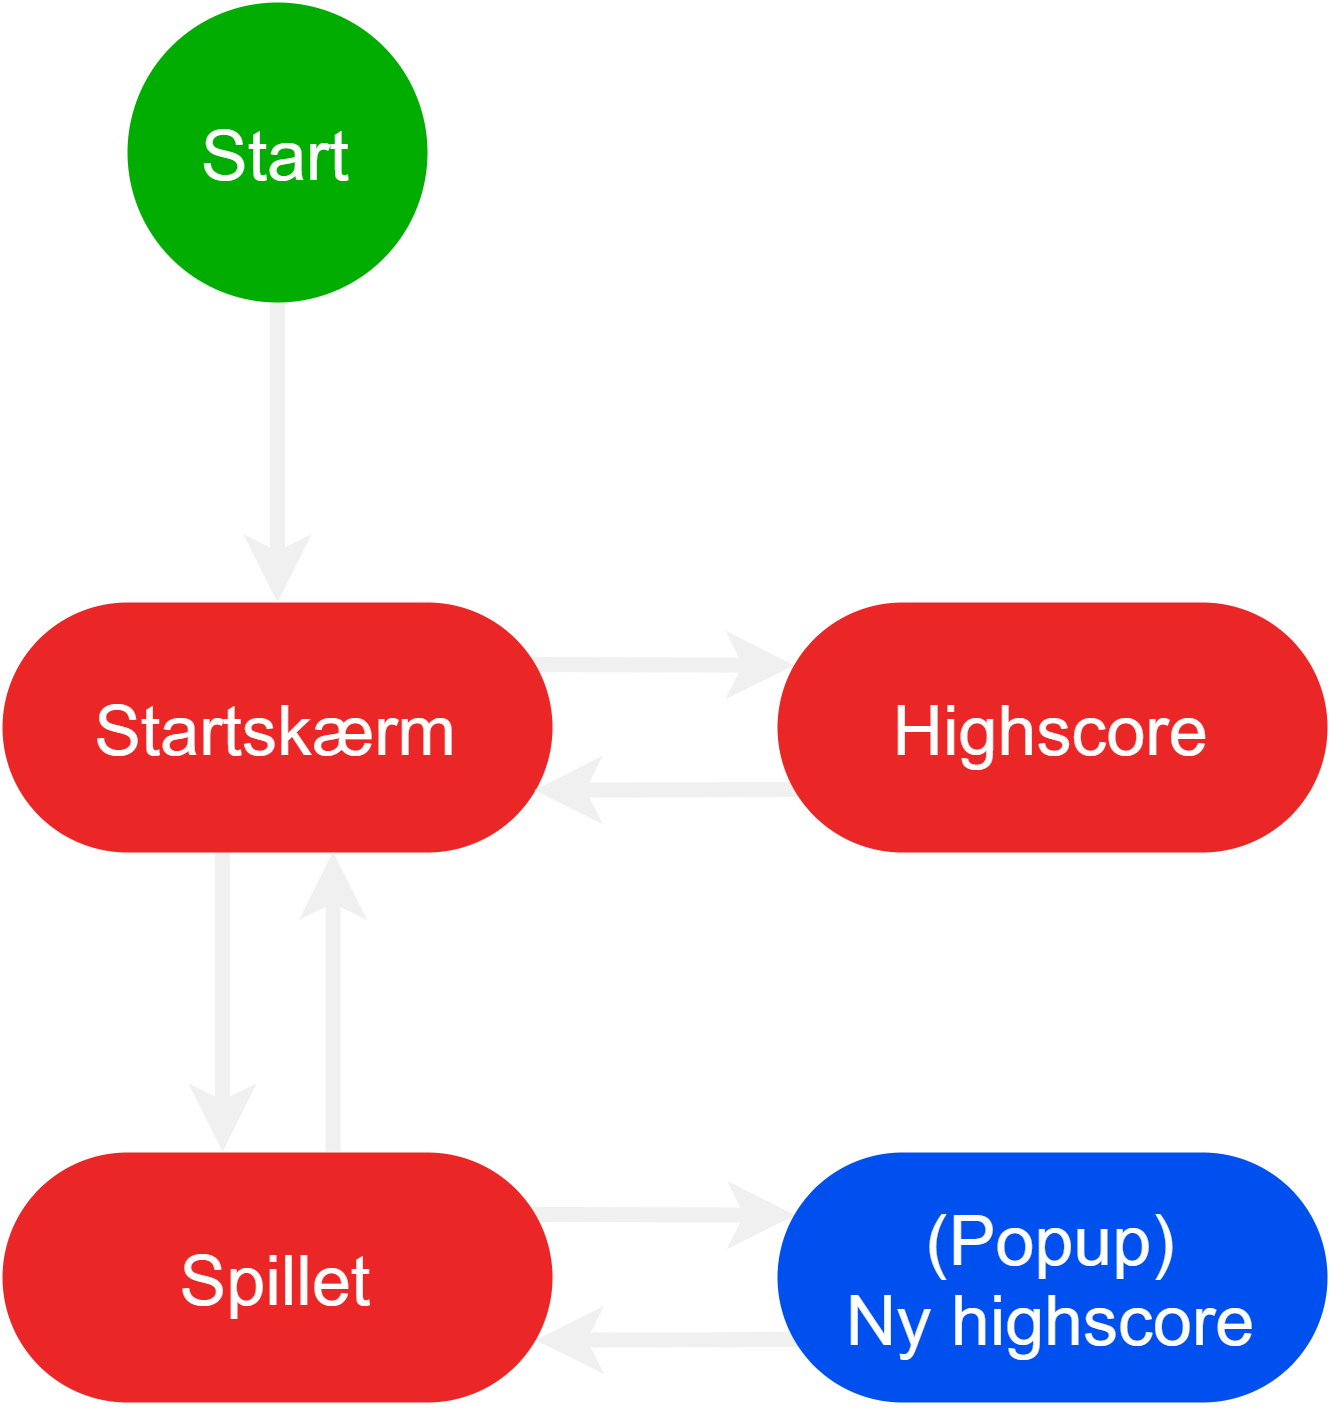
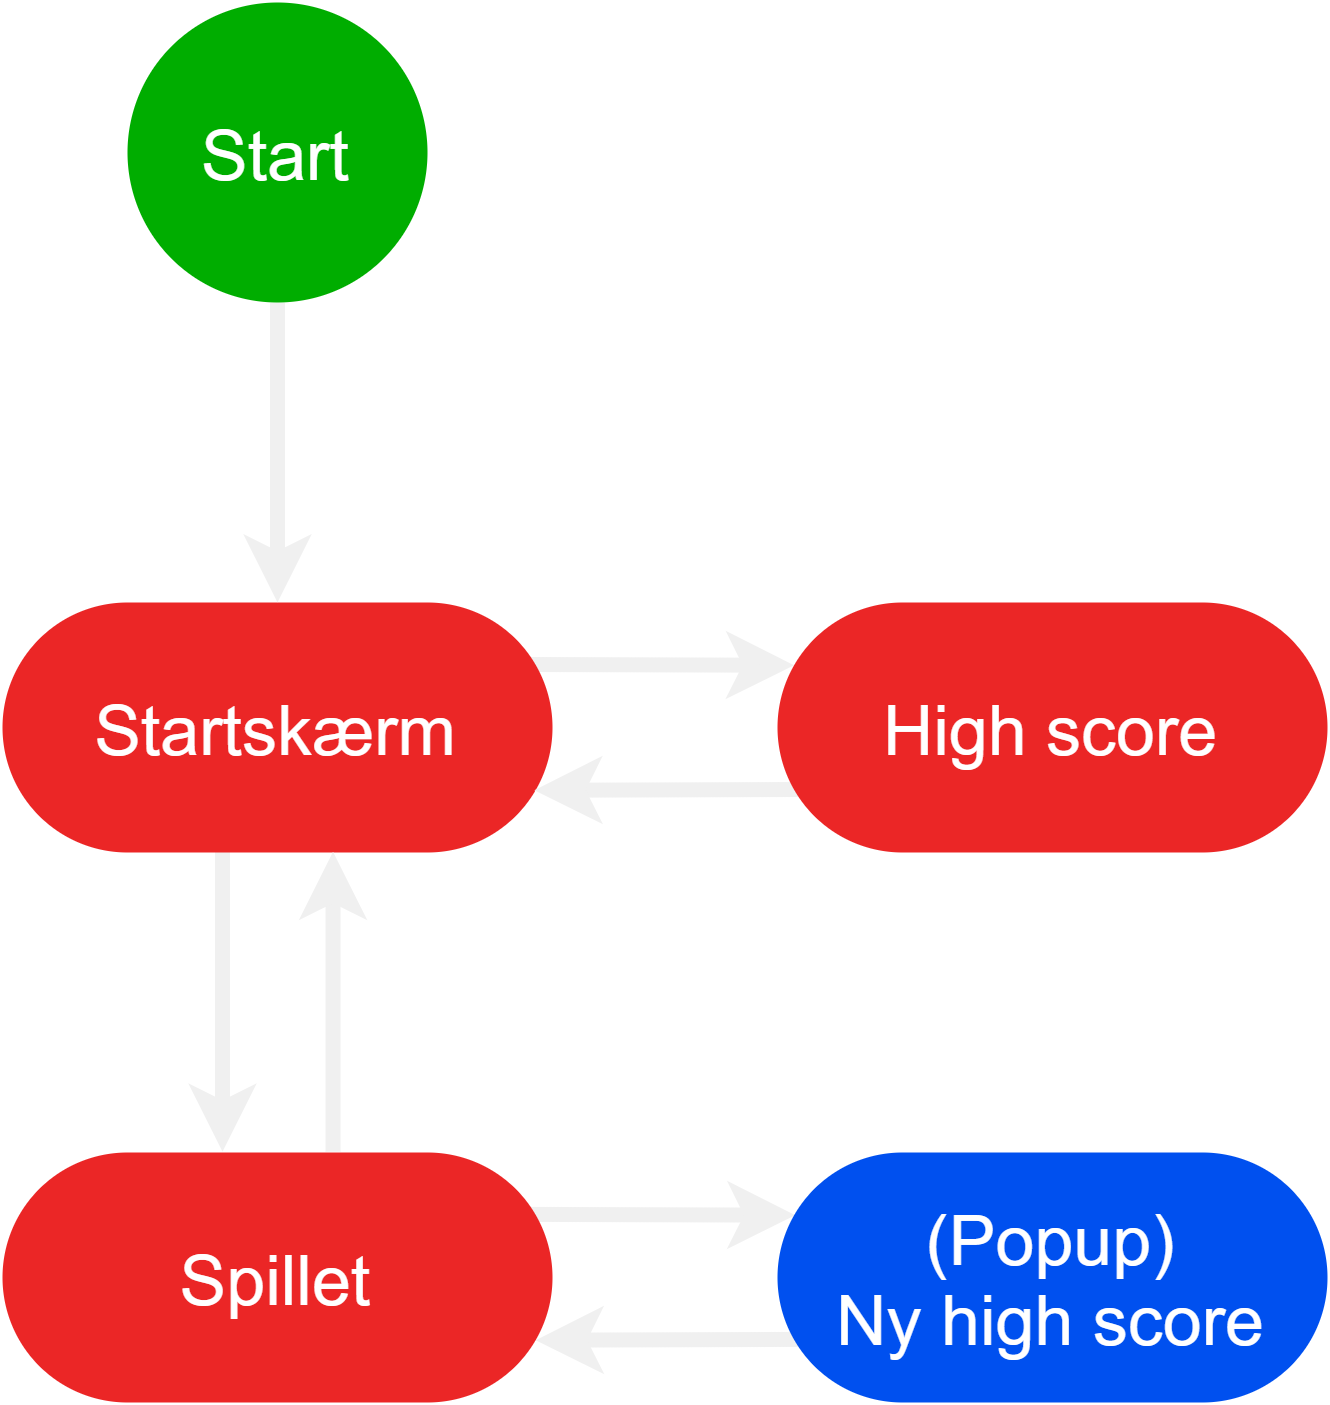
Updated flowchart and optimized blank cell clearer

diff --git a/src/main/java/org/sweepers/models/Level.java b/src/main/java/org/sweepers/models/Level.java
@@ -97,7 +97,7 @@ public class Level {
 
             // Blank cell clearer
             if ((level[y][x] instanceof Mineless && ((Mineless) level[y][x]).getNeighbors() == 0) && solveBlanks) {
-                List<Mineless> checked = new ArrayList<>();
+                // List<Mineless> checked = new ArrayList<>();
                 List<Mineless> unchecked = new ArrayList<>();
                 unchecked.add((Mineless) level[y][x]);
                 while (!unchecked.isEmpty()) {
@@ -106,8 +106,8 @@ public class Level {
                     unchecked.remove(0);
                     for (int i = Math.max(_y - 1, 0); i <= Math.min(_y + 1, height - 1); i++) {
                         for (int j = Math.max(_x - 1, 0); j <= Math.min(_x + 1, width - 1); j++) {
-                            if (!level[i][j].isFlagged() && !level[i][j].isRevealed() && !checked.contains(level[i][j])) {
-                                checked.add((Mineless) level[i][j]);
+                            if (!level[i][j].isFlagged() && !level[i][j].isRevealed() && !unchecked.contains(level[i][j])) {
+                                // checked.add((Mineless) level[i][j]);
                                 onClick(((Mineless) level[i][j]).getX(), ((Mineless) level[i][j]).getY(), false);
                                 if (((Mineless) level[i][j]).getNeighbors() == 0) {
                                     unchecked.add((Mineless) level[i][j]);
